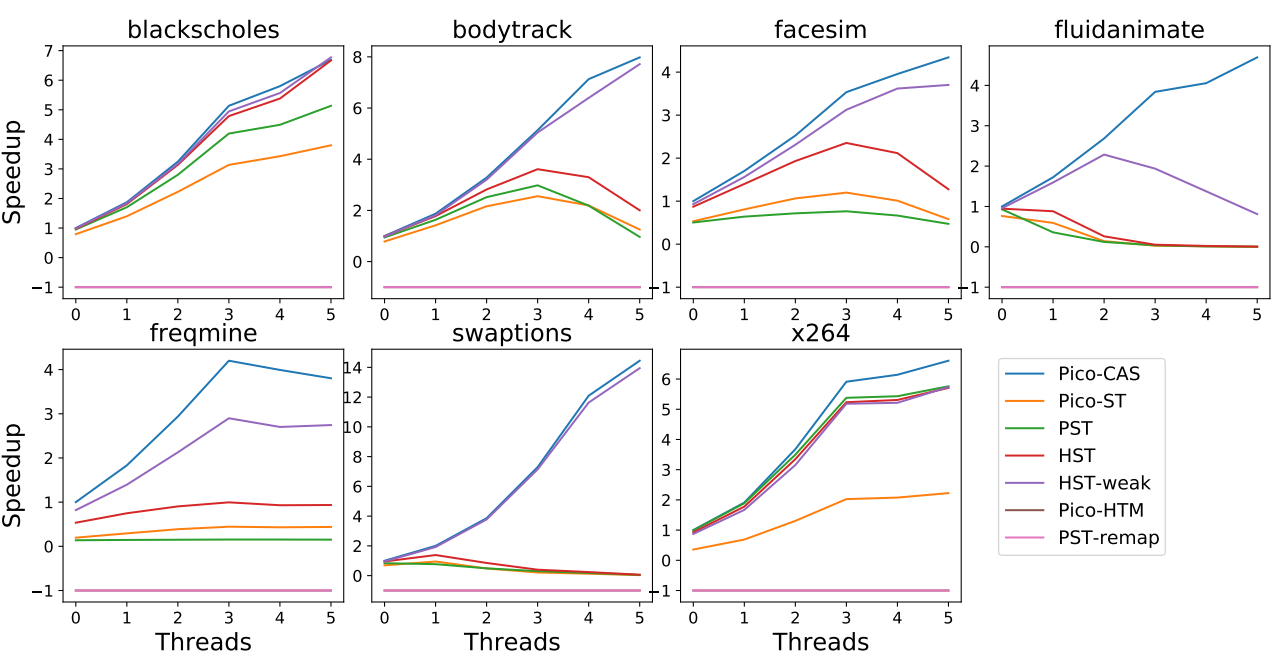
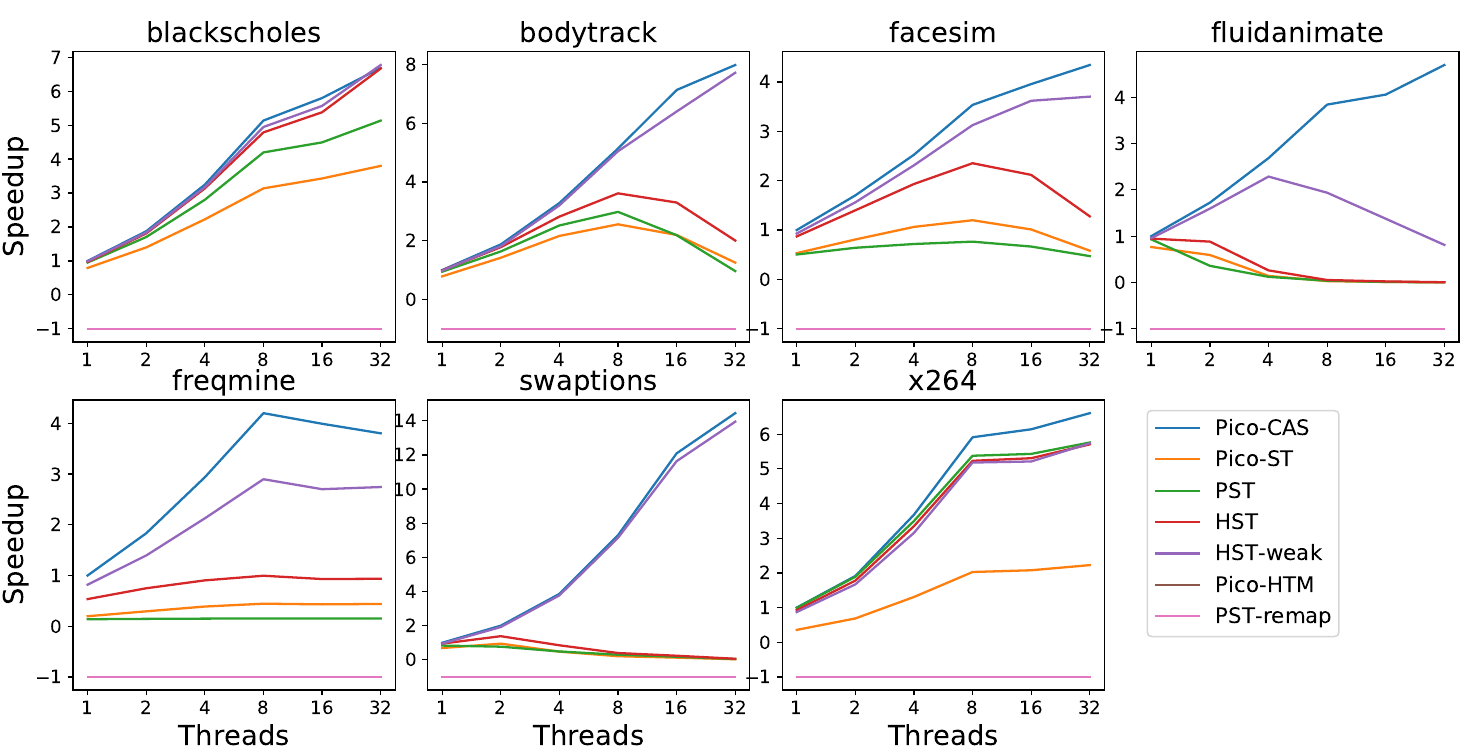
Fix xticks.

diff --git a/experiment/draw.py b/experiment/draw.py
@@ -28,7 +28,7 @@ for name in names:
     i += 1
     fig.add_subplot(num)
     plt.title(name, fontsize=18)
-    plt.xticks(fontsize=12)
+    plt.xticks(index, threads, fontsize=12)
     plt.yticks(fontsize=12)
     # empty = [0,0,0,0,0,[0
     for j in range(1, 8):
